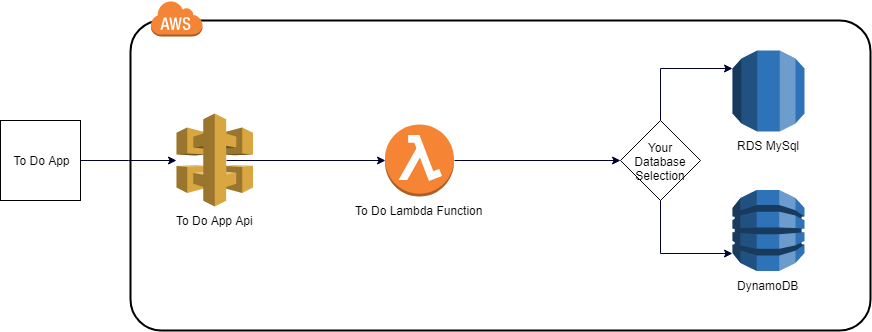
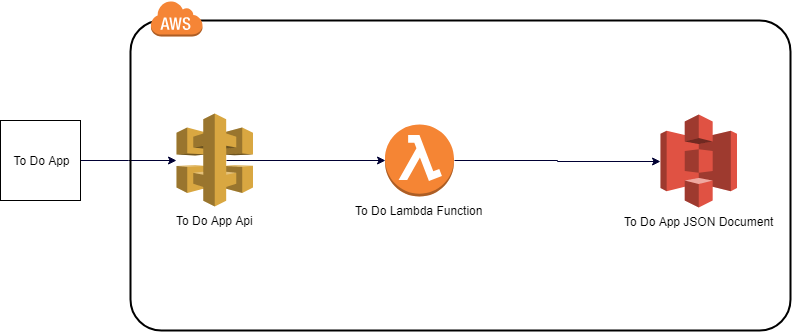
Only use S3 as datasource to prevent a lot of setup.

diff --git a/README.md b/README.md
@@ -10,6 +10,14 @@ The architecture should look like this:
 
 ![to do app flow](flow.png)
 
+Example record
+```json
+{
+    "id": 1,
+    "note": "Buy milk",
+    "completed": false
+}
+```
 
 ## Pre-requisites
 
@@ -23,134 +31,28 @@ The following tools and accounts are required to complete these instructions.
   - <https://www.microsoft.com/net/learn/get-started/windows>
   - MySql Workbench if planning to use RDS
 
-## Level 0 - Setup
+## Level 0 - Setup S3 to Store To Do App Data
 
-Pick a data source (AWS's RDS MySql or AWS's DynamoDB). Create a new instance.
+- Setup a S3 bucket to act as a data source. 
+- Upload the to do database from [here](todos.json) 
 
-<details>
-    <summary>RDS MySql</summary>
+## Level 1 - Bootstrap the Lambda Function
 
-    This assumes you know how to connect to a standard MySql database using a workbench. **Allocating can take some time.**
+Create an AWS's Lambda function that will retrieve a list of To Do items in an S3 bucket previously created.
 
-    - Select a **Dev/Test** instance.
+- Use either C# or NodeJs template provided in this repo to start.
+- Create an IAM role with S3 and CloudWatch permissions. Assign it to the lambda function.
+- Deploy the lambda function!
 
-Next Page
-
-    - DB instance class: db.t2.micro
-    - DB instance identifier: toDoDb
-    - Master username: dbadmin
-    - Master password: *anything you can remember*
-
-Next Page
-
-    - Public accessibility: yes
-    - Database name: todo
-
-Launch DB Instance (this will take some time. move to level 1)
-
-Once you have access, use the following sql script to create the table.
-
-```sql
-CREATE TABLE todo.items (
-  id int(11) NOT NULL AUTO_INCREMENT,
-  note text DEFAULT NULL,
-  completed bit(1) NOT NULL DEFAULT b'0',
-  PRIMARY KEY (id)
-)
-ENGINE = INNODB
-AUTO_INCREMENT = 1
-CHARACTER SET latin1
-COLLATE latin1_swedish_ci;
-```
-
-</details>
-
-<details>
-  <summary>DynamoDB</summary>
-
-    Create a new table. Partion by `id` as a number.  
-
-    One item will look like this:
-
-```json
-{
-    "id": 1,
-    "note": "Buy milk",
-    "completed": false
-}
-```
-
-[AWS Reference for DynamoDB NodeJS](https://docs.aws.amazon.com/amazondynamodb/latest/developerguide/GettingStarted.NodeJs.03.html)
-https://docs.aws.amazon.com/AWSJavaScriptSDK/latest/AWS/DynamoDB.html
-
-</details>
-
-## Level 1 - Lambda function from choosen data source
-
-Create an AWS's Lambda function that will retrieve a list of To Do items in either data store. It can be C#, JavaScript, Python, or any language that is supported.
-[AWS RDS Reference](https://docs.aws.amazon.com/lambda/latest/dg/vpc-rds-create-lambda-function.html)
-[AWS DynamoDB](https://docs.aws.amazon.com/amazondynamodb/latest/developerguide/GettingStarted.NodeJs.03.html)
-
-### Expected Response from Lambda Function on Http Get
-```json
-[
-  {
-    "id": 1,
-    "note": "Buy milk",
-    "completed": false
-  },
-  {
-    "id": 2,
-    "note": "Pickup dry cleaning",
-    "completed": false
-  },
-  {
-    "id": 3,
-    "note": "Pay bills",
-    "completed": false
-  },
-  {
-    "id": 4,
-    "note": "Schedule tee time",
-    "completed": true
-}
-```
-
-<details>
-  <summary>Hints:</summary>
-
-    If using RDS, check the security group of the database configure.
-
-Starter lambda function
-```javascript
-exports.handler = (event, context, callback) => {
-  console.log(JSON.stringify(event));
-  try {
-    callback(null, buildResponse([]));
-  } catch(e){
-    callback(null, buildResponse("Failed"));
-  }
-};
-
-function buildResponse(body){
-   return {
-        statusCode: 200,
-        headers: {
-            "Access-Control-Allow-Origin" : "*"
-        },
-        body: JSON.stringify(body)
-    };
-}
-
-```
-
-</details>
+###References
+https://aws.amazon.com/sdk-for-node-js/
 
 ## Level 2 - Create an API Gateway
 
 - Create an API Gateway.
 - Create a new resource `todo`.
-- Connect the new resource to the lambda function created from level 1.  Be sure to use `Use Lambda Proxy integration`.
+- Create a new `GET` method to the lambda function created from level 1.  Be sure to use `Use Lambda Proxy integration`.
+- Create a new `OPTIONS` method to the lambda function created from level 1.  Be sure to use `Use Lambda Proxy integration`.
 - Deploy API and configure the To Do App. Upon saving, the app will attempt to connect for a list of items. 
 ![to do app](ConfigureToDoApp.PNG)
 
@@ -161,12 +63,9 @@ function buildResponse(body){
 
     Be sure to `Deploy` the Api! Action drop down, `Deploy Api` on every change.
 
-   Chrome console will throw an error about if origin is not set (also see level 1 javascript hint): `Access-Control-Allow-Origin`
-To understand and resolve this security issue it: https://docs.aws.amazon.com/apigateway/latest/developerguide/how-to-cors.html
+   Chrome console will throw an error about if origin is not set (also see level 1 javascript hint): `Access-Control-Allow-Origin` or ``
 
-
-
-Check the CloudWatch for Lambda log events.
+   Check the CloudWatch for Lambda log events.
 
 </details>
 
@@ -176,11 +75,9 @@ Check the CloudWatch for Lambda log events.
 ## Level 3 - Create, Delete & Update a To Do Item
 
 The To Do app also supports the following functions:
-- On resource action method `Post`, create a to do item to data store.
-- On resource action method `Delete` resource, delete a to do item to data store.
-- On resource action method `Put` resource, update a to do item's `completed` boolean value to data store.
-
-Add both of these features by adding new resources in the api gateway and update the lambda function (or create new ones to handle logic).
+- On resource action method `POST`, create a to do item to data store. Return a single to do json as the api response.
+- On resource action method `DELETE` resource, delete a to do item to data store. Return nothing from api response.
+- On resource action method `PUT` resource, update a to do item. Return item from api response.
 
 <details>
   <summary>Hints:</summary>
@@ -189,12 +86,13 @@ Add both of these features by adding new resources in the api gateway and update
 
     Check the network tab in chrome for the requests!
 
+    CORS issues? Did you add OPTIONS method that mapped to the lambda function?
+
 </details>
 
 ## Level 4 - Security
-- Host the To Do app code on AWS's S3 service.
+- Host the To Do app code on AWS's S3 service. The repo is located here: https://github.com/skittleson/ToDoApp
 - Configure the Api to only allow requests from only that S3 static site using CORS.
 
-[AWS docs about S3 static site hosting]()
-
+[AWS docs about S3 static site hosting](https://docs.aws.amazon.com/AmazonS3/latest/dev/WebsiteHosting.html)
 [AWS docs about CORS](https://docs.aws.amazon.com/apigateway/latest/developerguide/how-to-cors.html)
